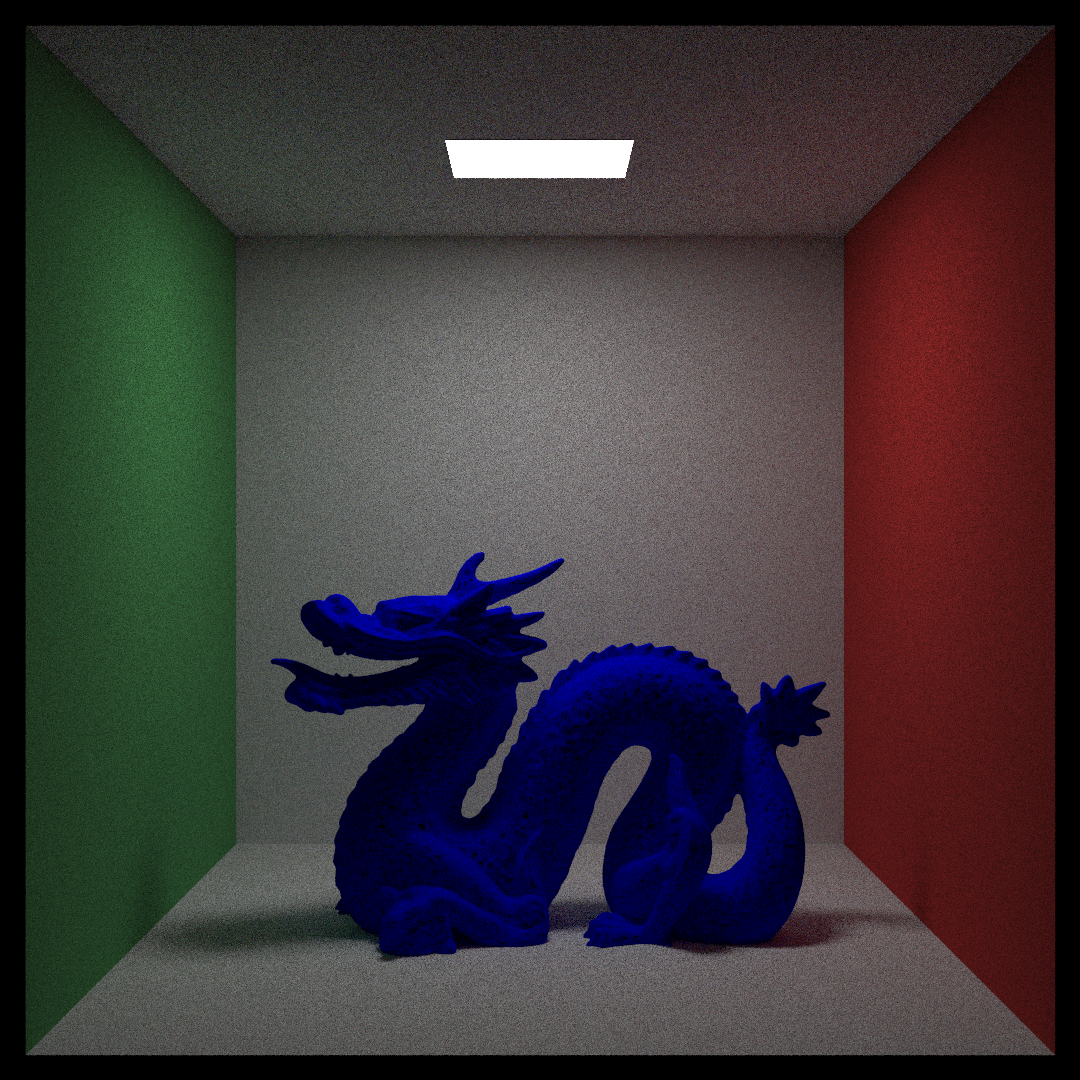
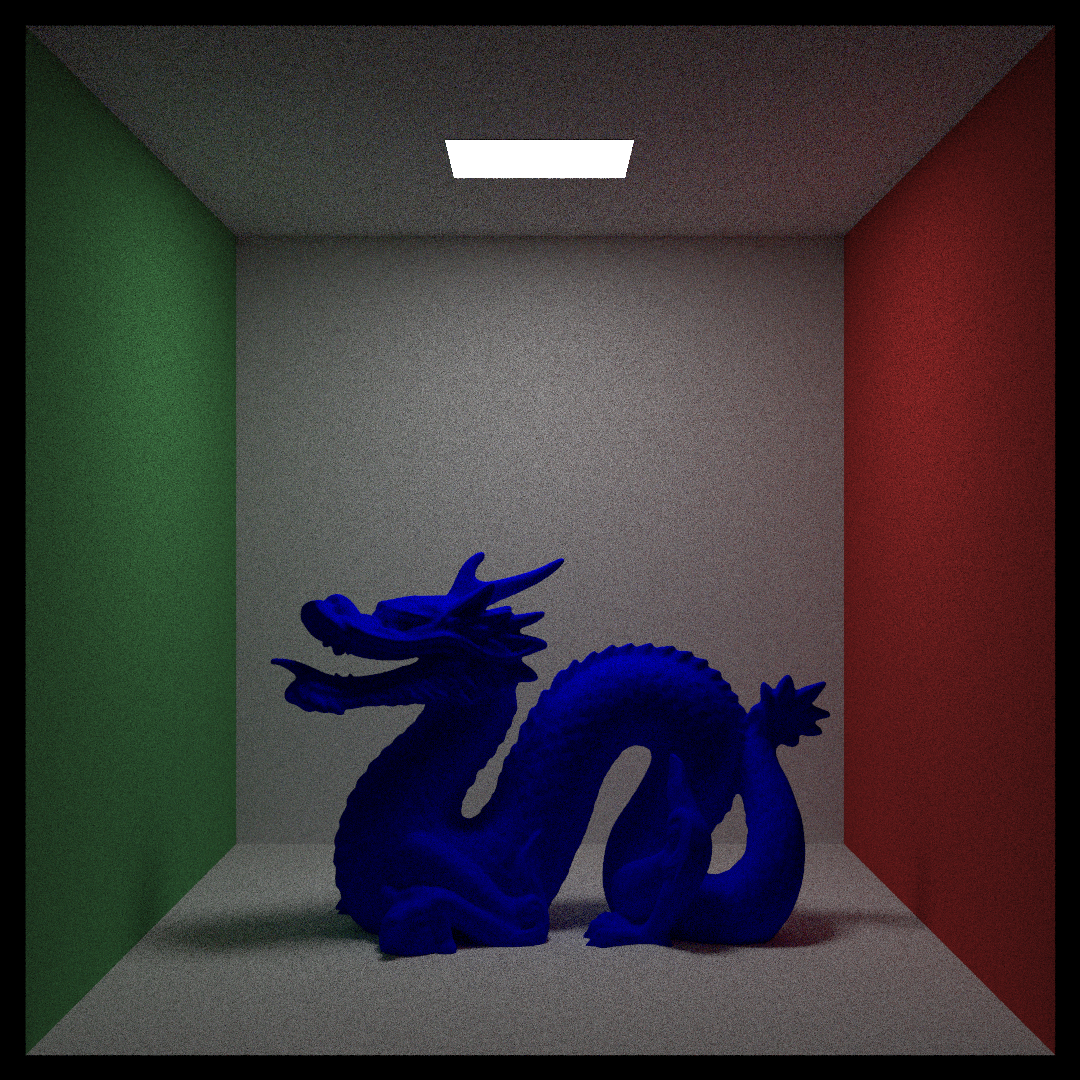
added bilinear interpolation for triangle normals

diff --git a/kernels/src/hitables/planar.rs b/kernels/src/hitables/planar.rs
@@ -166,6 +166,94 @@ impl<'a> IntoBoundingBox for Triangle<'a> {
 #[repr(C)]
 #[cfg_attr(not(target_os = "cuda"), derive(Clone))]
 #[derive_builder('a)]
+pub struct NormedTriangle<'a> {
+    origin: Point3,
+    u: Vec3,
+    v: Vec3,
+    norigin: Vec3,
+    nu: Vec3,
+    nv: Vec3,
+    plane: Plane,
+    mat: MaterialKind<'a>,
+}
+
+impl<'a> NormedTriangle<'a> {
+    pub fn new(
+        p1: Point3,
+        p2: Point3,
+        p3: Point3,
+        norm1: Vec3,
+        norm2: Vec3,
+        norm3: Vec3,
+        mat: MaterialKind<'a>,
+    ) -> HitKind<'a> {
+        let u = p2 - &p1;
+        let v = p3 - &p1;
+        let plane = Plane::from_uv(&p1, &u, &v);
+        let nu = norm2 - &norm1;
+        let nv = norm3 - &norm1;
+        NormedTriangle {
+            origin: p1,
+            u,
+            v,
+            plane,
+            norigin: norm1,
+            nu,
+            nv,
+            mat,
+        }
+        .into()
+    }
+}
+
+impl<'b> Hitable for NormedTriangle<'b> {
+    fn hit<'a>(
+        &'a self,
+        ray: &Ray,
+        t_range: &Range<Real>,
+        _rng: &mut Random,
+    ) -> Option<HitRecord<'a>> {
+        if let Some(hit) = self.plane.hit(ray, t_range) {
+            let (u, v) = self
+                .plane
+                .get_uv_coords(&hit.p, &self.origin, &self.u, &self.v);
+            if u >= 0.0 && v >= 0.0 && u + v <= 1.0 {
+                let normal = (&self.norigin + &self.nu * u + &self.nv * v).normalize();
+                return Some(HitRecord {
+                    p: hit.p,
+                    normal,
+                    t: hit.t,
+                    is_front_face: hit.is_front_face,
+                    u,
+                    v,
+                    mat: &self.mat,
+                });
+            }
+        }
+        None
+    }
+
+    fn pdf_value(&self, _origin: &Point3, _direction: &Vec3, _rng: &mut Random) -> Real {
+        unimplemented!()
+    }
+
+    fn random(&self, _origin: &Point3, _rng: &mut Random) -> Vec3 {
+        unimplemented!()
+    }
+}
+
+impl<'a> IntoBoundingBox for NormedTriangle<'a> {
+    fn boundingbox(&self) -> BoundingBox {
+        // Compute the bounding box of all three vertices.
+        let bbox = BoundingBox::new_point(self.origin.clone());
+        let bbox = bbox.merge(&BoundingBox::new_point((&self.origin) + &self.u));
+        bbox.merge(&BoundingBox::new_point((&self.origin) + &self.v))
+    }
+}
+
+#[repr(C)]
+#[cfg_attr(not(target_os = "cuda"), derive(Clone))]
+#[derive_builder('a)]
 pub struct Quad<'a> {
     origin: Point3,
     u: Vec3,
@@ -316,6 +404,13 @@ impl IsLight for Quad<'_> {
 
 #[cfg(not(target_os = "cuda"))]
 impl IsLight for Triangle<'_> {
+    fn is_light(&self) -> bool {
+        self.mat.is_light()
+    }
+}
+
+#[cfg(not(target_os = "cuda"))]
+impl IsLight for NormedTriangle<'_> {
     fn is_light(&self) -> bool {
         self.mat.is_light()
     }

diff --git a/kernels/src/hitables/object_parser.rs b/kernels/src/hitables/object_parser.rs
@@ -1,5 +1,8 @@
 use crate::{
-    hitables::{hitable_list_builder::HitableListBuilder, planar::Triangle},
+    hitables::{
+        hitable_list_builder::HitableListBuilder,
+        planar::{NormedTriangle, Triangle},
+    },
     materials::MaterialKind,
     vec3::{Real, Vec3},
 };
@@ -41,14 +44,32 @@ pub fn parse_obj<'a>(
                 vertex_normals.push(Vec3::new(x, y, z));
             }
             "f" => {
-                let v1: usize = parts[1].split('/').next().unwrap().parse()?;
+                if parts.len() != 4 {
+                    return Err("Only triangular faces are supported".into());
+                }
+                let splitted_parts: Vec<Vec<&str>> = vec![
+                    parts[1].split('/').collect::<Vec<_>>(),
+                    parts[2].split('/').collect::<Vec<_>>(),
+                    parts[3].split('/').collect::<Vec<_>>(),
+                ];
+                let v1: usize = splitted_parts[0][0].parse()?;
                 let v1 = vertices[v1 - 1];
-                let v2: usize = parts[2].split('/').next().unwrap().parse()?;
+                let v2: usize = splitted_parts[1][0].parse()?;
                 let v2 = vertices[v2 - 1];
-                let v3: usize = parts[3].split('/').next().unwrap().parse()?;
+                let v3: usize = splitted_parts[2][0].parse()?;
                 let v3 = vertices[v3 - 1];
 
-                let triangle = Triangle::new(v1, v2, v3, material.clone());
+                let triangle = if splitted_parts[0].len() < 3 || splitted_parts[0][2].is_empty() {
+                    Triangle::new(v1, v2, v3, material.clone())
+                } else {
+                    let vn1_index: usize = splitted_parts[0][2].parse()?;
+                    let vn1 = vertex_normals[vn1_index - 1];
+                    let vn2_index: usize = splitted_parts[1][2].parse()?;
+                    let vn2 = vertex_normals[vn2_index - 1];
+                    let vn3_index: usize = splitted_parts[2][2].parse()?;
+                    let vn3 = vertex_normals[vn3_index - 1];
+                    NormedTriangle::new(v1, v2, v3, vn1, vn2, vn3, material.clone())
+                };
                 result.add(triangle);
             }
             _ => {

diff --git a/kernels/src/hitables/mod.rs b/kernels/src/hitables/mod.rs
@@ -7,7 +7,9 @@ use crate::{
     hitables::{
         constant_medium::{ConstantMedium, ConstantMediumDevice},
         hitable_list::{HitableList, HitableListDevice},
-        planar::{Quad, QuadDevice, Triangle, TriangleDevice},
+        planar::{
+            NormedTriangle, NormedTriangleDevice, Quad, QuadDevice, Triangle, TriangleDevice,
+        },
         rotate::{Rotate, RotateDevice},
         scale::{Scale, ScaleDevice},
         sphere::{Sphere, SphereDevice},
@@ -362,8 +364,9 @@ pub enum HitKindNonRecursive<'b> {
     Sphere(Sphere<'b>),
     Quad(Quad<'b>),
     Triangle(Triangle<'b>),
+    NormedTriangle(NormedTriangle<'b>),
 }
-impl_into_hitkind_non_recursive!(Sphere, Quad, Triangle);
+impl_into_hitkind_non_recursive!(Sphere, Quad, Triangle, NormedTriangle);
 
 #[cfg(not(target_os = "cuda"))]
 use crate::materials::IsLight;
@@ -375,6 +378,7 @@ impl<'a> IsLight for HitKindNonRecursive<'a> {
             HitKindNonRecursive::Sphere(s) => s.is_light(),
             HitKindNonRecursive::Quad(q) => q.is_light(),
             HitKindNonRecursive::Triangle(t) => t.is_light(),
+            HitKindNonRecursive::NormedTriangle(t) => t.is_light(),
         }
     }
 }
